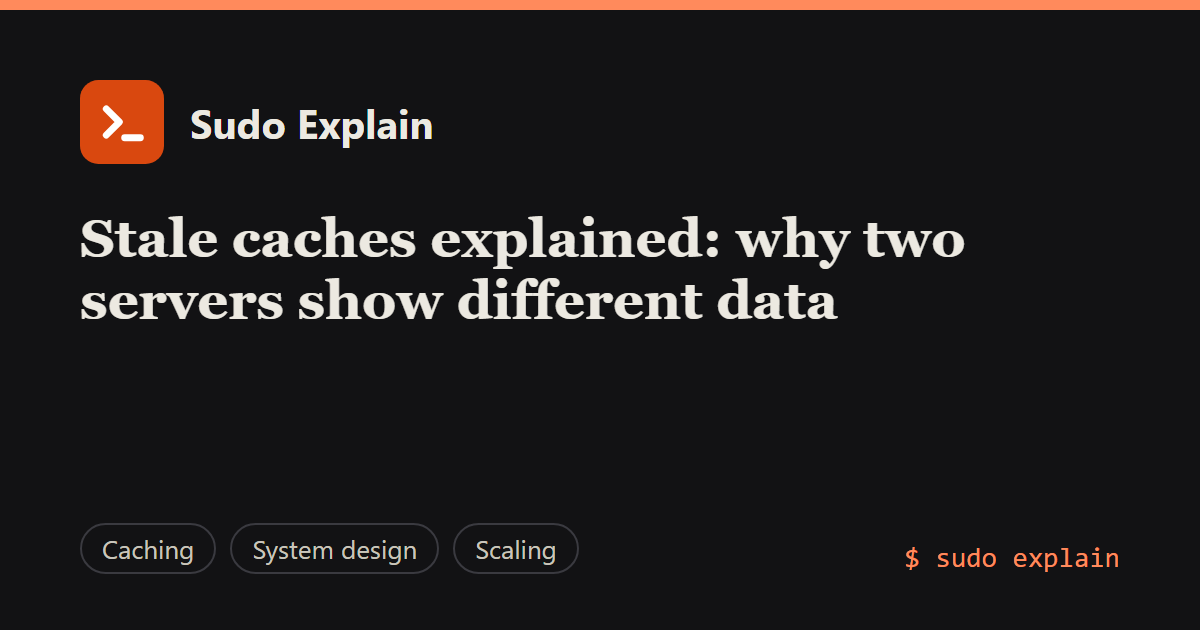
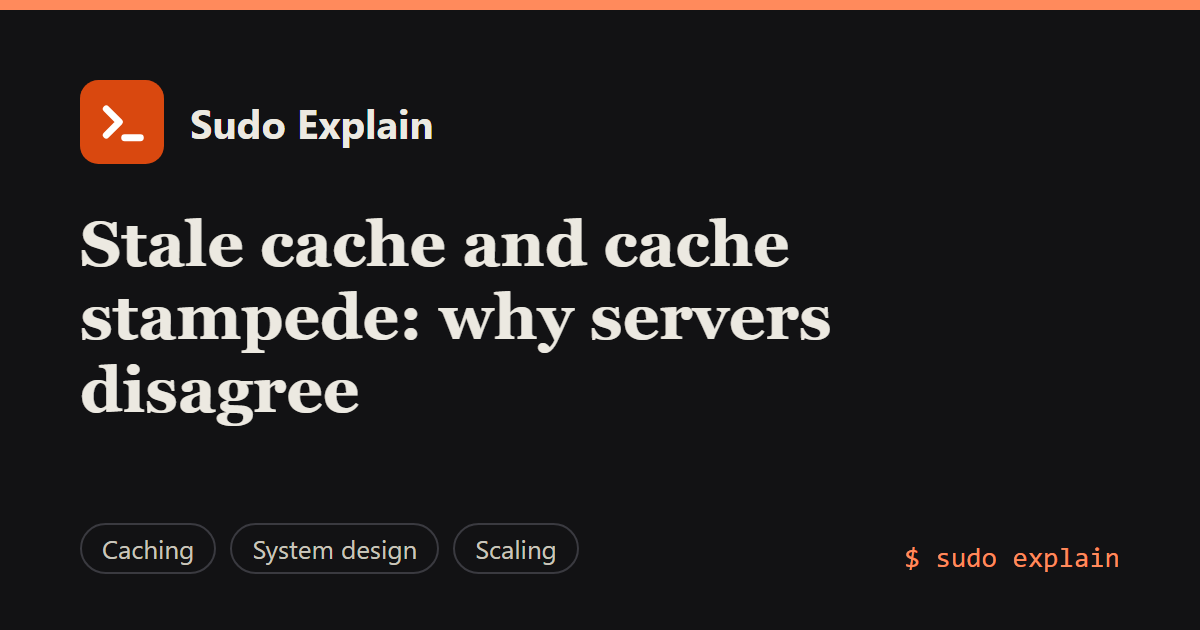
feat: text diagrams, fact-check fixes for live posts, SEO titles
- diagrams.mjs draws laptop and phone diagrams from short text blocks
- page titles drop the site name when they would pass 60 characters
- corrections to both live posts after a source-by-source fact-check
- stale cache post retitled to include cache stampede, new share card

Changed region(s): [[0.0617, 0.3317, 0.8017, 0.573], [0.0617, 0.573, 0.3083, 0.6937]]

diff --git a/content/posts/sessions-jwt-and-load-balancers.md b/content/posts/sessions-jwt-and-load-balancers.md
@@ -44,7 +44,7 @@ The server did not forget on purpose. Nothing in request 2 says it came from the
 
 ### Cookies in 30 seconds
 
-Both ideas usually ride on a **cookie**. A cookie is a small piece of text that a website asks your browser to store. After that, the browser attaches it automatically to every request to that website.
+A session ID usually rides on a **cookie**, and a JWT often does too, though it is also commonly sent in an `Authorization` header. A cookie is a small piece of text that a website asks your browser to store. After that, the browser attaches it automatically to every request to that website.
 
 ```text
 Response:   Set-Cookie: sid=9f3c2a...; HttpOnly; Secure; SameSite=Lax
@@ -103,9 +103,9 @@ Think of a festival wristband with your ticket details printed on it and a tampe
 
 A JWT is three chunks of text joined by dots: `header.payload.signature`.
 
-- The **header** says how it was signed
+- The **header** says how it was signed (not the same thing as an HTTP header, which comes later)
 - The **payload** holds the facts (called *claims*), such as who you are and when the token expires
-- The **signature** is the seal, made with a secret key that only the server holds
+- The **signature** is the seal, made with a secret key (a private key, or in simpler setups a shared secret) that only the login service holds
 
 ```json
 {
@@ -122,7 +122,7 @@ When the token comes back, the server checks the seal. If it matches, the facts 
 
 ```pseudocode
 # At login (once)
-facts = { sub: 42, role: "admin", expires: one hour from now }
+facts = { sub: "42", role: "admin", expires: one hour from now }
 token = sign(facts, privateKey)
 
 # On every request: fails if tampered with or expired
@@ -152,7 +152,7 @@ So the login service stamps tokens with its private key. Every other server hold
 
 ### One thing that surprises people
 
-A JWT is **signed, not encrypted**. Those two words sound alike but mean different things:
+A typical JWT is **signed, not encrypted**. (Encrypted variants exist but are rare.) Those two words sound alike but mean different things:
 
 - **Encrypted** means scrambled so that only the right key holder can read it, like a locked box.
 - **Signed** means readable by everyone, but protected against changes, like the stamped postcard.
@@ -307,7 +307,7 @@ The cheapest fix: tell the load balancer to **always send the same user to the s
 It works, but it has real weaknesses:
 
 - If Server A crashes or restarts, everyone stuck to it is logged out
-- Deploying a new version restarts the servers, so you log everyone out each time
+- Deploying a new version restarts the servers, so users on a restarted server can lose their sessions. Some servers keep them across a clean restart only if you configure it, and a crash loses them either way
 - The load can become uneven, because some users keep a server busy while others do not
 
 Sticky sessions are a bandage. They are fine for a small setup, and not much more.
@@ -420,7 +420,9 @@ A JWT is valid until it expires, and the server is not looking anything up, so i
 - a role is removed
 - a token is stolen
 
-The usual answer is to make tokens **short-lived** (5 to 15 minutes) and pair them with a **refresh token**. When the short token expires, the client trades the refresh token for a new one. Here is the catch: the refresh token is checked against a **server-side record**, so it can be revoked. You have rebuilt a small session, consulted every few minutes instead of every request.
+The usual answer is to make tokens **short-lived** (5 to 15 minutes) and pair them with a **refresh token**. When the short token expires, the client trades the refresh token for a new one. Usually the refresh token is checked against a **server-side record**, so it can be revoked. You have rebuilt a small session, consulted every few minutes instead of every request.
+
+Two more cautions. If you keep the token where the page's own JavaScript can read it (such as `localStorage`), a script-injection bug can steal it. An `HttpOnly` cookie stops scripts from reading it, though it then needs protection against forged requests from other sites (`SameSite` helps). And on every request the server must check the signature, the expiry and the algorithm it expects. Never accept a token that names its own algorithm as "none".
 
 So "stateless" never meant the state vanished. The honest version is: *JWTs keep state out of the hot path, and in exchange you get weaker, slower revocation.*
 
@@ -429,9 +431,9 @@ So "stateless" never meant the state vanished. The honest version is: *JWTs keep
 | Situation | Reach for |
 |---|---|
 | One web app, one backend, users log in through a browser | **Sessions.** Simple, easy to revoke, nothing clever to get wrong |
-| Several servers behind a load balancer | **Sessions in a shared store**, or tokens. Never sessions in one server's memory |
+| Several servers behind a load balancer | **Sessions in a shared store**, or tokens. Avoid sessions in one server's memory (sticky sessions are a stopgap) |
 | Several services that must trust the same login | **Tokens (JWT).** Each service verifies locally |
-| Mobile apps or third-party API clients | **Tokens.** There is no cookie jar to lean on |
+| Mobile apps or third-party API clients | **Tokens.** Cookies are awkward to share across apps and third-party clients |
 | You must be able to kick a user out right now | **Sessions**, or very short tokens with a revocable refresh token |
 
 If you are not sure, start with sessions in a shared store. Move to tokens when you actually feel the pain of sharing login state across services, not because a blog post said tokens are modern.
@@ -441,5 +443,5 @@ If you are not sure, start with sessions in a shared store. Move to tokens when 
 1. HTTP forgets you, so every request needs proof of who you are.
 2. A **session** keeps the memory on the server. A **JWT** puts the memory in a signed token.
 3. A session kept in **one server's memory** breaks the moment a load balancer sends you to a different server.
-4. Fix it by **moving the state out of the servers** (a shared store) or **out of the server side entirely** (a JWT), not by pinning users to machines.
+4. Fix it by **moving the state out of the servers** (a shared store) or **out of the server side entirely** (a JWT), rather than relying on pinning users to machines.
 5. "Stateless" does not mean the state disappeared. It means you chose where to keep it, and the moment you need to revoke something, it comes back.

diff --git a/content/posts/stale-caches-explained.md b/content/posts/stale-caches-explained.md
@@ -1,7 +1,7 @@
 ---
-title: Stale caches explained: why two servers show different data
+title: Stale cache and cache stampede: why servers disagree
 date: 2026-11-01
-description: Why two servers can give two different answers to the same question, how to spot a stale cache, and three ways to fix it.
+description: Why two servers give different answers, how to spot a stale cache, three ways to fix it, and how a cache stampede can follow.
 tags: caching, system-design, scaling, web
 ---
 
@@ -177,29 +177,33 @@ When users say "I see old data, but only sometimes", suspect this. Here is how t
 
 ```bash
 for i in 1 2 3 4 5 6; do
-  curl -si https://example.com/api/products/42 | grep -E "X-Served-By|price"
+  curl -si https://example.com/api/products/42 | grep -iE "x-served-by|price"
 done
 ```
 
 **3. Read the output.** A stale cache looks like this:
 
 ```text
-X-Served-By: server-a
+x-served-by: server-a
 {"id":42,"price":25}
-X-Served-By: server-b
+x-served-by: server-b
 {"id":42,"price":20}
-X-Served-By: server-a
+x-served-by: server-a
 {"id":42,"price":25}
-X-Served-By: server-b
+x-served-by: server-b
 {"id":42,"price":20}
 ```
 
+(Over HTTP/2 and HTTP/3, header names are sent in lowercase, which is why `grep -i` ignores the case.)
+
 The same address gives two different answers, and the answer depends on **which server replied**. Server A always says 25. Server B always says 20. That pattern is the fingerprint of a stale cache in one server's memory.
 
-**4. Check the source of truth.** Look at the price in the database itself. If it says 25, the data is fine and one of the notebooks is out of date.
+**4. Check the source of truth.** That is the one place that holds the real data, here the database. Look at the price there. If it says 25, the data is fine and one of the notebooks is out of date.
 
 > [!NOTE]
 > If the answers are random and do **not** line up with the server names, the cause is something else, such as two requests racing each other. The giveaway for a stale cache is that each server is consistently wrong in its own way.
+>
+> Also check for caches in front of your servers, in the browser or a CDN (a network of servers that keeps copies of pages close to users). Look at the `Cache-Control` and `Age` response headers. A response with a large `Age` came from such a cache, not from your app.
 
 ## Fix 1: let copies expire
 
@@ -214,6 +218,8 @@ function getPrice(productId):
     cache[productId] = { price: price, expiresAt: now + 60 seconds }
     return price
 ```
+
+(`setPrice` must store an expiry time in the same way when it writes to the cache.)
 
 Server B's $20 now lives for at most a minute. After that it fetches 25 from the database and the servers agree again.
 
@@ -231,7 +237,7 @@ if cache.version != current:                  # someone changed it elsewhere
     cache.version = current
 ```
 
-Checking one small number is cheap. Reloading the whole product on every request is not. The version number tells you exactly when a reload is needed, so stale answers disappear, and you only pay for the full read when something really changed.
+Checking one small number is cheap. Reloading the whole product on every request is not. The version number tells you exactly when a reload is needed, so stale answers become much rarer, and you only pay for the full read when something really changed.
 
 **The cost:** every request still makes one small trip to the database to read the version. You save the heavy work but not the trip. If the trip itself is the problem, you need the next fix.
 
@@ -262,7 +268,7 @@ Picture the product page everyone is viewing. Its cached copy expires at 12:00:0
 
 The database slows down under the sudden load. Requests start timing out, so nobody manages to refill the cache, and the pile-up grows. This is called a **cache stampede**: a crowd of requests all rushing to rebuild the same missing copy at once. The cache was meant to protect the database, and at that moment it does the opposite.
 
-**How you would notice.** The database is calm, then load spikes sharply at the instant popular items expire, and responses get slow for a while. Charts of database load show regular spikes, spaced one TTL apart.
+**How you would notice.** The database is calm, then load spikes sharply at the instant popular items expire, and responses get slow for a while. If traffic is steady, charts of database load show regular spikes, spaced one TTL apart.
 
 There are two common fixes, and real systems usually use both.
 
@@ -290,6 +296,8 @@ function getPrice(productId):
 ttl = 60 seconds + random(0 to 10 seconds)        # "jitter"
 ```
 
+The lock must be shared by all servers, for example kept in the shared store. A lock held in one server's memory only protects that server. Deleting a popular copy (Fix 3) causes the same stampede, so the lock helps there too. After a deletion there is no old copy to serve, so the other requests must wait for the rebuild.
+
 The cost of the lock is a little more code, and one more thing that can go wrong, such as a lock never released after a crash, so locks are given their own short expiry. The cost of jitter is nothing at all. That is why the TTL in real systems almost always carries some randomness.
 
 ## Which should you use?
@@ -297,7 +305,7 @@ The cost of the lock is a little more code, and one more thing that can go wrong
 | Situation | Reach for |
 |---|---|
 | Being a little out of date is harmless (counters, trending lists) | **Expiry (TTL).** Simple, nothing clever to get wrong |
-| The data must be correct, and one small database read per request is fine | **Version number.** Always correct, still cheaper than reloading |
+| The data must be correct, and one small database read per request is fine | **Version number.** Correct as of the version check, still cheaper than reloading |
 | Many servers, very high traffic, and each trip to the database hurts | **Invalidation or a shared cache,** plus a TTL as a backstop |
 | You are not sure whether you even need a cache | **No cache.** Measure first, because a cache you do not need is a bug waiting to happen |
 

diff --git a/docs/writing.md b/docs/writing.md
@@ -93,7 +93,47 @@ Always write meaningful alt text. It is used by screen readers and by search eng
 
 Posts with three or more `##` sections get a sticky contents list in the right-hand column on screens 1100px and wider. The article starts at the same left edge as every other page. The entry for the section being read is highlighted as you scroll. On narrower screens and phones the same list appears as a collapsed "On this page" box under the post header.
 
-To add a diagram, wrap it in a figure with a caption (keep blank lines out of the block). Give it two versions so it is readable everywhere: a wide one for screens, and an upright one that the site shows on phones (640px and narrower):
+## Diagrams from text (the easy way)
+
+Most diagrams in this blog are written as a `diagram` block. You describe it in a few lines and the site draws **two** pictures from it: a wide one for laptops, and an upright one for phones (640px and narrower). Both follow the light and dark themes, and you never write any SVG.
+
+There are two kinds. A **sequence** shows who talks to whom over time, which suits requests, retries and races:
+
+````text
+```diagram
+type: sequence
+alt: One sentence that describes the picture for screen readers.
+caption: Figure 1. What the reader should notice.
+actors: Client | Server | Card provider
+Client -> Server: POST /charge
+Card provider --> Server: ok
+Server -x Client: reply lost
+note Client: it sees a timeout, so it retries
+Server -> Card provider: charge $50 again !
+```
+````
+
+- `->` is a solid arrow, `-->` a dashed one (a reply), and `-x` an arrow that never arrives.
+- A trailing ` !` draws that line (or note) in the accent colour. Use it for the thing that goes wrong.
+- `note Name: text` puts a note under one actor, and `note all: text` spans the diagram.
+- Keep to 2 to 4 actors with short names, and keep each line short. Phones are narrow.
+
+A **flow** shows boxes joined by arrows, side by side on a laptop and one above the other on a phone:
+
+````text
+```diagram
+type: flow
+alt: A request holds a connection during a slow call until the pool is empty.
+caption: Figure 2. The pool runs dry.
+Request borrows a connection -> Slow remote call (2 s) -> Pool is empty -> Requests time out !
+```
+````
+
+Use at most 5 boxes, with a few words in each. The `alt` line is required, because it is the text a screen reader speaks. `node build.mjs --check` suggests a diagram for any longer post that has none.
+
+## Diagrams as raw SVG (when you need more control)
+
+To add a hand-drawn diagram, wrap it in a figure with a caption (keep blank lines out of the block). Give it two versions so it is readable everywhere: a wide one for screens, and an upright one that the site shows on phones (640px and narrower):
 
 ```html
 <figure>

diff --git a/docs/configuration.md b/docs/configuration.md
@@ -43,7 +43,7 @@ Nothing here needs configuring.
 
 | Feature | Detail |
 |---|---|
-| Titles and descriptions | Unique per page. A post without `description` gets an excerpt of its first paragraph |
+| Titles and descriptions | Unique per page. A post without `description` gets an excerpt of its first paragraph. The site name is added to the page title only when the result stays within 60 characters, because search results cut longer titles |
 | Canonical URLs | Every page declares its own canonical address |
 | Open Graph and Twitter tags | Title, description, type, site name, and the preview image with its size and alt text |
 | Structured data (JSON-LD) | `WebSite` on the home page, `BlogPosting` on posts (headline, dates, author, keywords) |
